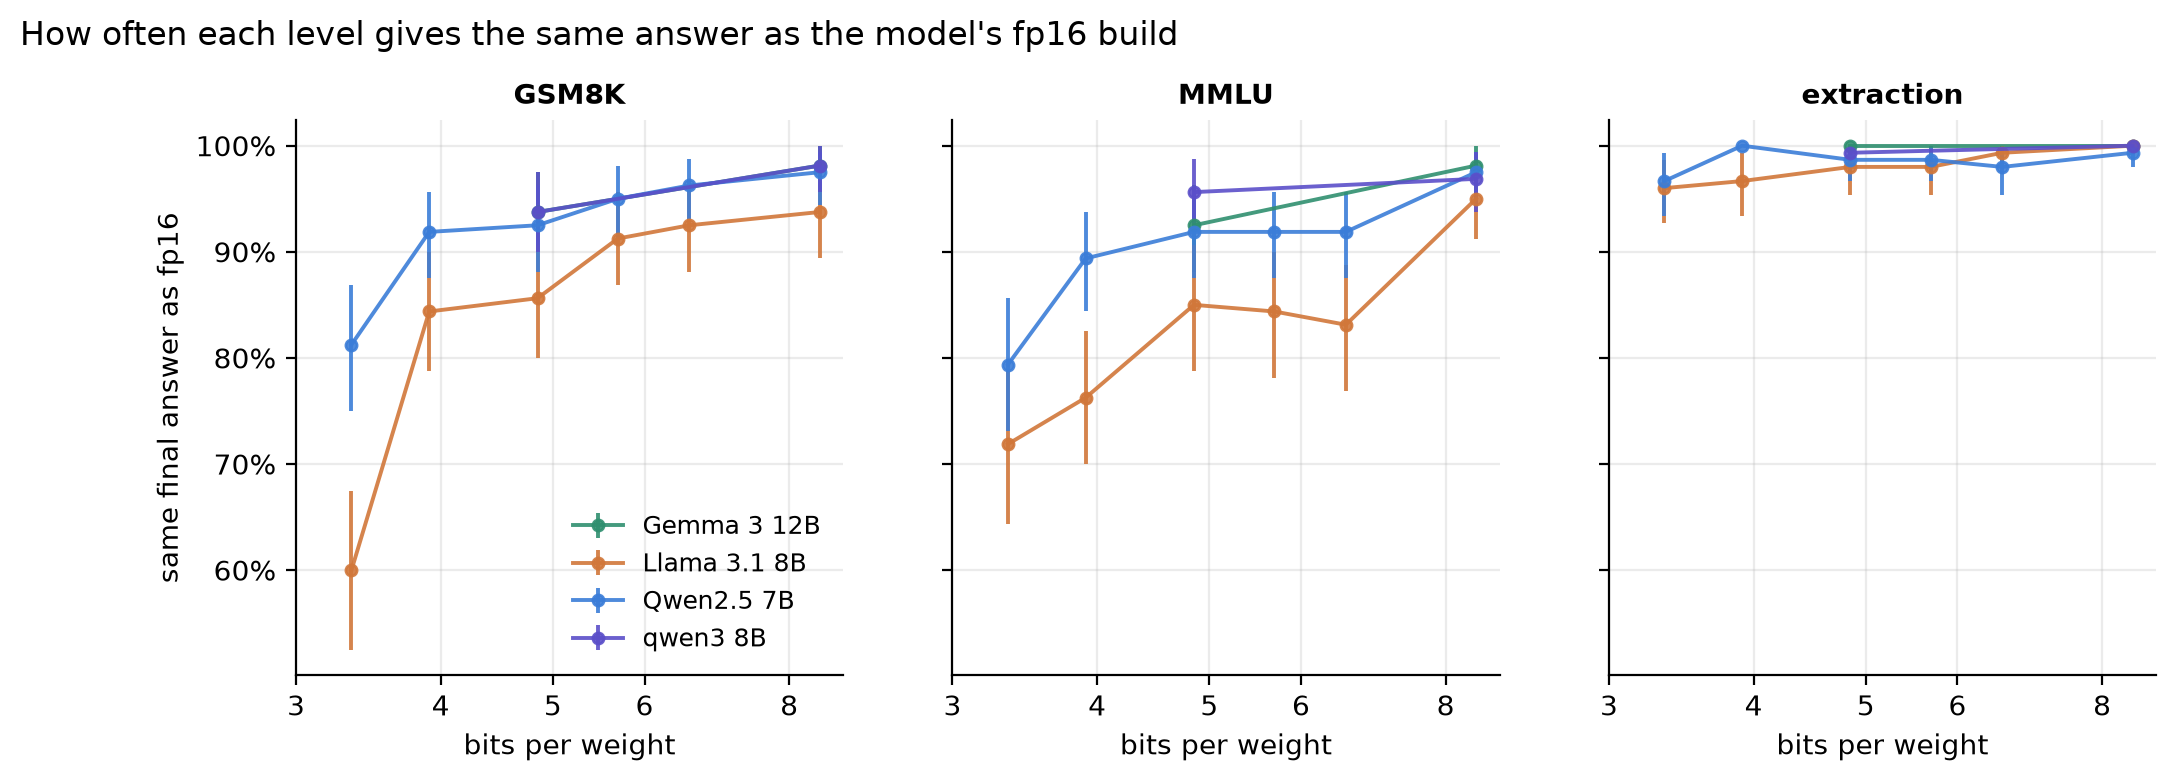
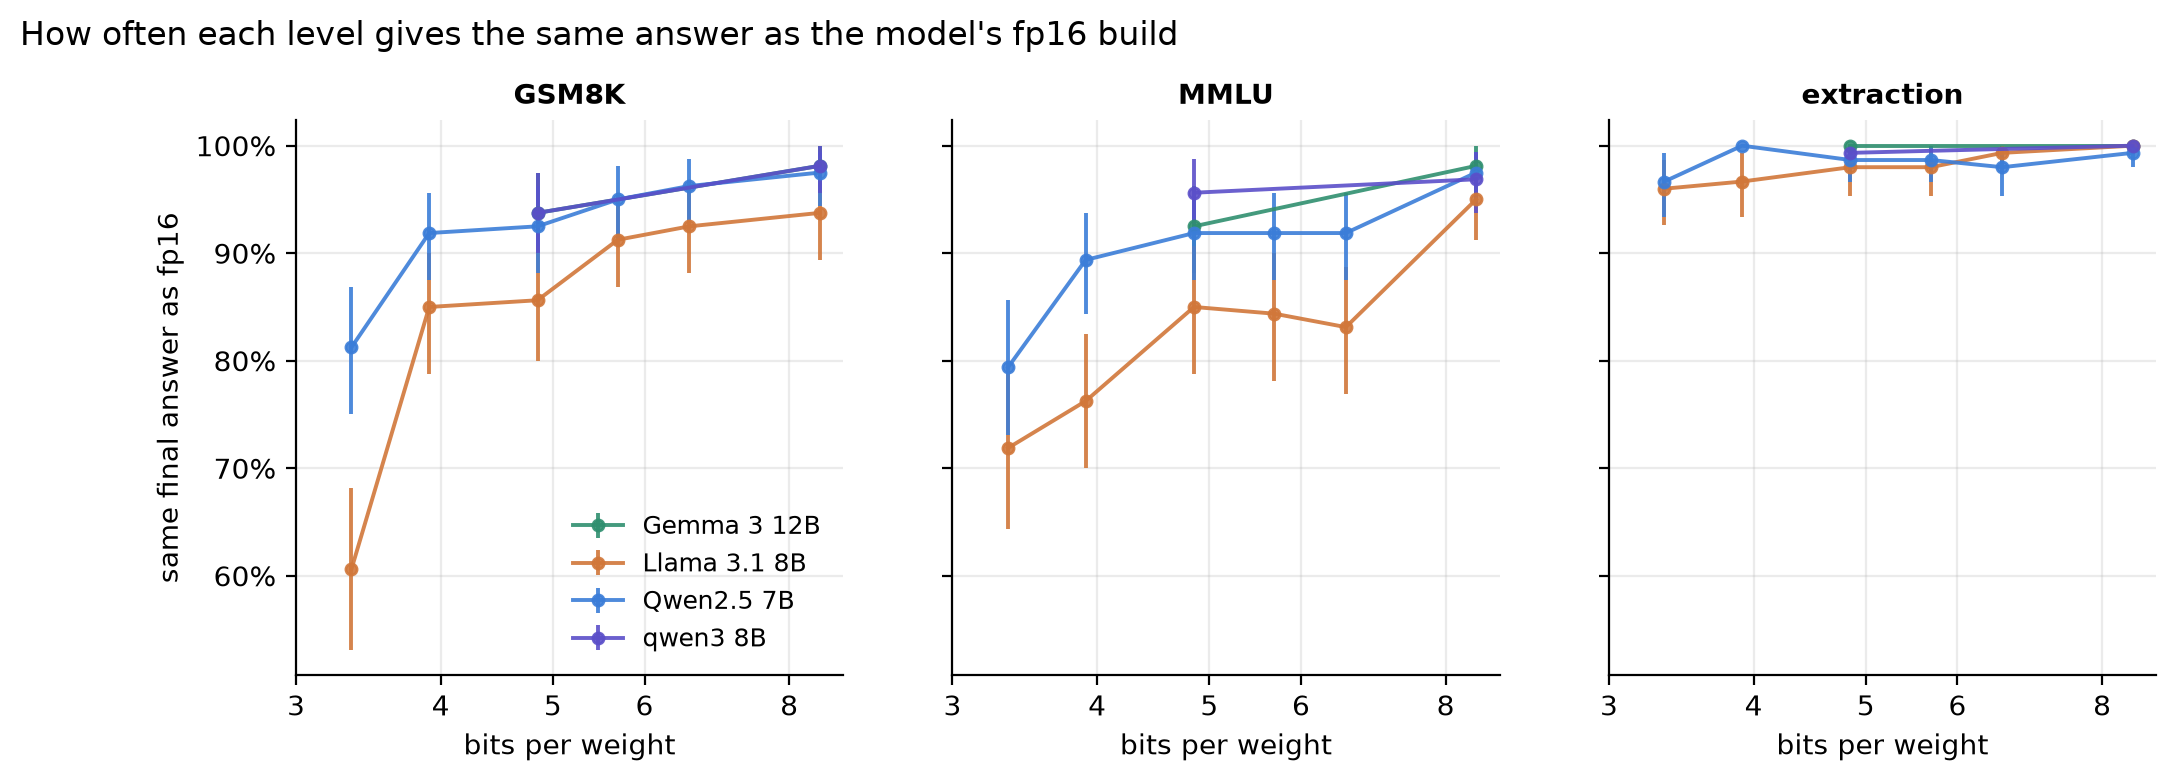
Parse a space used as a thousands separator on the answer line; re-score (no verdict changes)

diff --git a/src/qcliff/parse.py b/src/qcliff/parse.py
@@ -25,6 +25,12 @@ def _clean(text: str) -> str:
     return text.replace("**", "").replace("\\(", "").replace("\\)", "")
 
 
+def _join_groups(s: str) -> str:
+    """Read "9 500" (a space, no-break or thin space between thousands) as "9500". Used only on an
+    answer line or a \\boxed{}, where a space between digit groups is one number, not two."""
+    return re.sub(r"(?<=\d)[ \u00a0\u202f](?=\d{3}\b)", "", s)
+
+
 def canon_number(s) -> str | None:
     s = str(s).replace(",", "").replace("$", "").strip()
     try:
@@ -44,11 +50,11 @@ def parse_gsm8k(text: str) -> tuple[str | None, str]:
     cues = list(re.finditer(rf"(?m)^\s*[#>*\- ]*{CUE}\s*[:：]\s*(.*)$", t))
     if cues:
         tail = cues[-1].group(1)
-        m = re.search(NUM, tail.replace("$", ""))
+        m = re.search(NUM, _join_groups(tail.replace("$", "")))
         if m:
             return canon_number(m.group(0)), "cue"
     if boxed:
-        m = re.search(NUM, boxed[-1])
+        m = re.search(NUM, _join_groups(boxed[-1]))
         if m:
             return canon_number(m.group(0)), "boxed"
     nums = re.findall(NUM, t.replace("$", ""))

diff --git a/tests/test_parse.py b/tests/test_parse.py
@@ -53,3 +53,11 @@ def test_written_answer_survives_a_truncated_reply():
     assert r["written_correct"] is True
     r = check_a("gsm8k", "json_cot", '{"reasoning": "6 + 12", "answer": 18}', "18")
     assert r["correct"] and r["written_correct"]
+
+
+def test_space_as_thousands_separator_on_the_answer_line():
+    from qcliff.parse import parse_gsm8k
+    assert parse_gsm8k("The difference is $409 500 - $400 000 = $9 500.\n\nAnswer: $9 500")[0] == "9500"
+    assert parse_gsm8k("Answer: 1 250 000")[0] == "1250000"
+    assert parse_gsm8k("so \\boxed{12 000}")[0] == "12000"
+    assert parse_gsm8k("Answer: 3 apples and 450 grams")[0] == "3"  # not a digit group

diff --git a/HYPOTHESES.md b/HYPOTHESES.md
@@ -101,15 +101,23 @@ What would contradict prediction 4: a clear GSM8K drop at q4_K_M or above.
 The full run ended 2026-11-04 about 21:00 EST, about 25 hours after it started: 14,300 calls on the main
 items (21 builds × 620, plus the A/A repeat at q4_K_M), every build complete. Nothing above was edited.
 The pass rules were fixed in `src/qcliff/score.py` (commit 182b222) against the pilot before any main
-result existed; the only change since is the wording of one check's label in prediction 7, which printed
-the levels in the opposite order to its values. The scorecard is `reports/scorecard.md`.
+result existed. The only changes since are the wording of one check's label in prediction 7, which
+printed the levels in the opposite order to its values, and the parser fix described below. The scorecard is `reports/scorecard.md`.
 
 Checks before scoring: no call came near the context window (longest prompt plus reply 1,201 of 4,096
 tokens). Every unparsed GSM8K/MMLU reply (17), every wrong reply cut off at the cap (38), and every wrong
 reply whose last lines mention the right answer (76) was read. All are the model's own failures:
 intermediate values that equal the gold, loops to the cap, "none of the above", refusing to choose.
-None is a parsing artifact. Re-scoring all 9,870 main replies with an independent copy of the checkers
-(evalpair) gave the same score on every one.
+
+One parsing artifact was found after the first scoring, by a separate run of the same items: on
+gsm8k-0265 (gold 9,500), Llama writes "Answer: $9 500", with a space as the thousands separator, and the
+parser read 9. It did so at fp16, q8_0, q6_K, q5_K_M and q4_K_M (5 scored replies, plus the A/A repeat);
+no other main reply has a space-grouped number on its answer line. The parser now joins digit groups
+split by a space on the answer line and inside `\boxed{}` only, and every number below is after the fix.
+Before it, Llama's GSM8K scores from fp16 to q4_K_M were each 0.6 pp lower (fp16 88.1% rather than
+88.8%), its q3_K_M drop was −5.6 rather than −6.2 pp, and its q2_K drop −27.5 rather than −28.1. No
+verdict changed. Re-scoring all 9,870 main replies with an independent copy of the checkers (evalpair,
+with the same fix) gives the same score on every one.
 
 Scored: 8 held, 5 partly, 0 failed.
 
@@ -118,10 +126,10 @@ Scored: 8 held, 5 partly, 0 failed.
 | 1 | q8_0 drop within ±2 pp, interval includes 0, every model and task | largest Llama MMLU −1.9 [−5.0, +0.6] | held |
 | 2 | q6_K and q5_K_M drops within ±3 pp, ladder models | 11 of 12; Llama MMLU q6_K −6.2 [−11.9, −0.6] | partly |
 | 3 | q4_K_M drop no worse than −4 pp, every model and task | 11 of 12; Llama GSM8K −4.4 [−9.4, +0.6] | partly |
-| 4 | No clear GSM8K drop above q3_K_M; Llama q2_K ≥ 5 pp and worse than Qwen2.5 | none above q3_K_M; Llama −27.5 [−35.6, −20.0], Qwen2.5 −6.9 | held |
-| 5 | At q2_K, GSM8K drop larger than MMLU drop, both ladder models | Llama −27.5 vs −12.5; Qwen2.5 −6.9 vs −9.4 | partly |
+| 4 | No clear GSM8K drop above q3_K_M; Llama q2_K ≥ 5 pp and worse than Qwen2.5 | none above q3_K_M; Llama −28.1 [−35.6, −20.0], Qwen2.5 −6.9 | held |
+| 5 | At q2_K, GSM8K drop larger than MMLU drop, both ladder models | Llama −28.1 vs −12.5; Qwen2.5 −6.9 vs −9.4 | partly |
 | 6 | q2_K base extraction within ±2 pp; reformatted loses more | Llama +0.3 / −0.5; Qwen2.5 +0.1 / −0.6 | held |
-| 7 | q8_0 agreement < 100% for ≥ 3 models; agreement falls q8_0 → q4_K_M → q2_K | 4 of 4; e.g. Llama GSM8K 93.8% → 85.6% → 60.0% | held |
+| 7 | q8_0 agreement < 100% for ≥ 3 models; agreement falls q8_0 → q4_K_M → q2_K | 4 of 4; e.g. Llama GSM8K 93.8% → 85.6% → 60.6% | held |
 | 8 | Llama GSM8K output at q2_K ≥ 1.15 × fp16 | 223 → 306 tokens (1.37×) | held |
 | 9 | Llama strict-JSON share, q2_K vs fp16, differs by ≥ 50 pp | 0% → 100% | held |
 | 10 | Gemma QAT agrees with fp16 more than q4_K_M, pooled; drop no worse on either task | 94.1% vs 93.1%; MMLU −0.6 vs −1.9; GSM8K +0.6 vs +1.9 (missed) | partly |
@@ -140,8 +148,8 @@ with itself on 98.8% of Llama's and 99.4% of Qwen2.5's MMLU items (2 and 1 unpar
 Not pre-registered, from reading the replies:
 
 - **Llama's 2-bit maths loss is wrong reasoning, not running out of room.** At q2_K, 49 GSM8K items go
-  right → wrong and 5 wrong → right. Only 10 of the 49 are replies cut off at the cap. Among replies that
-  finished, accuracy is 66.9% (145 items), against 88.1% at fp16.
+  right → wrong and 4 wrong → right. Only 10 of the 49 are replies cut off at the cap. Among replies that
+  finished, accuracy is 66.9% (97 of 145), against 88.8% at fp16.
 - **Llama's MMLU answers move well before its accuracy settles.** The q6_K dip (−6.2 pp: 16 items right
   → wrong, 6 wrong → right) is followed by −1.2 at q5_K_M and −3.8 at q4_K_M, so it is not a trend. From
   q6_K to q4_K_M, Llama gives a different MMLU answer than fp16 on 15–17% of items; Qwen2.5 on 8%.
@@ -151,5 +159,5 @@ Not pre-registered, from reading the replies:
   absolute location." repeated to the cap; "Step 29: Based on the above steps..."), Qwen2.5 answers one
   MMLU item in Chinese and on another repeats "hinterland" until the cap.
 - **q2_K buys little speed.** At q2_K, Llama generates 62.5 tokens per second against 48.1 at q4_K_M
-  (1.3×) and Qwen2.5 62.2 against 52.6 (1.2×), for about 1.7 GB less memory, while scoring 23 and 9 pp
+  (1.3×) and Qwen2.5 62.2 against 52.6 (1.2×), for about 1.7 GB less memory, while scoring 24 and 9 pp
   lower on GSM8K than at q4_K_M.

diff --git a/reports/results.md b/reports/results.md
@@ -12,13 +12,13 @@ Score, and in brackets the drop from fp16 in points.
 
 | level | bits | GSM8K | MMLU | extraction | extraction (reformatted) |
 |---|---|---|---|---|---|
-| fp16 | 16.0 | 88.1% (+0.0) | 84.4% (+0.0) | 99.6% (+0.0) | 99.0% (+0.0) |
-| q8_0 | 8.5 | 88.8% (+0.6) | 82.5% (-1.9) | 99.6% (+0.0) | 99.2% (+0.2) |
-| q6_K | 6.56 | 86.9% (-1.2) | 78.1% (-6.2) | 99.5% (-0.1) | 99.1% (+0.1) |
-| q5_K_M | 5.69 | 87.5% (-0.6) | 83.1% (-1.2) | 99.3% (-0.2) | 99.2% (+0.2) |
-| q4_K_M | 4.85 | 83.8% (-4.4) | 80.6% (-3.8) | 99.8% (+0.2) | 98.7% (-0.3) |
-| q3_K_M | 3.91 | 82.5% (-5.6) | 77.5% (-6.9) | 99.3% (-0.2) | 96.7% (-2.3) |
-| q2_K | 3.35 | 60.6% (-27.5) | 71.9% (-12.5) | 99.9% (+0.3) | 98.5% (-0.5) |
+| fp16 | 16.0 | 88.8% (+0.0) | 84.4% (+0.0) | 99.6% (+0.0) | 99.0% (+0.0) |
+| q8_0 | 8.5 | 89.4% (+0.6) | 82.5% (-1.9) | 99.6% (+0.0) | 99.2% (+0.2) |
+| q6_K | 6.56 | 87.5% (-1.2) | 78.1% (-6.2) | 99.5% (-0.1) | 99.1% (+0.1) |
+| q5_K_M | 5.69 | 88.1% (-0.6) | 83.1% (-1.2) | 99.3% (-0.2) | 99.2% (+0.2) |
+| q4_K_M | 4.85 | 84.4% (-4.4) | 80.6% (-3.8) | 99.8% (+0.2) | 98.7% (-0.3) |
+| q3_K_M | 3.91 | 82.5% (-6.2) | 77.5% (-6.9) | 99.3% (-0.2) | 96.7% (-2.3) |
+| q2_K | 3.35 | 60.6% (-28.1) | 71.9% (-12.5) | 99.9% (+0.3) | 98.5% (-0.5) |
 
 ### Qwen2.5 7B (n = 160 per task, 150 records)
 
@@ -63,8 +63,8 @@ Score, and in brackets the drop from fp16 in points.
 | Llama 3.1 8B | GSM8K | q6_K | -1.2 | [-5.0, +1.9] | 160 |
 | Llama 3.1 8B | GSM8K | q5_K_M | -0.6 | [-4.4, +3.1] | 160 |
 | Llama 3.1 8B | GSM8K | q4_K_M | -4.4 | [-9.4, +0.6] | 160 |
-| Llama 3.1 8B | GSM8K | q3_K_M | -5.6 | [-10.6, -0.6] | 160 |
-| Llama 3.1 8B | GSM8K | q2_K | -27.5 | [-35.6, -20.0] | 160 |
+| Llama 3.1 8B | GSM8K | q3_K_M | -6.2 | [-10.6, -1.9] | 160 |
+| Llama 3.1 8B | GSM8K | q2_K | -28.1 | [-35.6, -20.0] | 160 |
 | Llama 3.1 8B | MMLU | q8_0 | -1.9 | [-5.0, +0.6] | 160 |
 | Llama 3.1 8B | MMLU | q6_K | -6.2 | [-11.9, -0.6] | 160 |
 | Llama 3.1 8B | MMLU | q5_K_M | -1.2 | [-6.9, +4.4] | 160 |
@@ -140,7 +140,7 @@ Walking down from fp16, the first level whose drop is at least 5 points with an 
 | gemma3-12b | mmlu | base | none | – | q4_K_M | -1.9 |
 | llama3.1-8b | drift | base | none | – | q2_K | +0.3 |
 | llama3.1-8b | drift | reformatted | none | – | q2_K | -0.5 |
-| llama3.1-8b | gsm8k | base | q3_K_M | -5.6 | q2_K | -27.5 |
+| llama3.1-8b | gsm8k | base | q3_K_M | -6.2 | q2_K | -28.1 |
 | llama3.1-8b | mmlu | base | q6_K | -6.2 | q2_K | -12.5 |
 | qwen2.5-7b | drift | base | none | – | q2_K | +0.1 |
 | qwen2.5-7b | drift | reformatted | none | – | q2_K | -0.6 |
@@ -162,8 +162,8 @@ Walking down from fp16, the first level whose drop is at least 5 points with an 
 | Llama 3.1 8B | GSM8K | q6_K | 92.5% | [88.1, 96.2] | 160 |
 | Llama 3.1 8B | GSM8K | q5_K_M | 91.2% | [86.9, 95.6] | 160 |
 | Llama 3.1 8B | GSM8K | q4_K_M | 85.6% | [80.0, 90.6] | 160 |
-| Llama 3.1 8B | GSM8K | q3_K_M | 84.4% | [78.8, 90.0] | 160 |
-| Llama 3.1 8B | GSM8K | q2_K | 60.0% | [52.5, 67.5] | 160 |
+| Llama 3.1 8B | GSM8K | q3_K_M | 85.0% | [78.8, 90.0] | 160 |
+| Llama 3.1 8B | GSM8K | q2_K | 60.6% | [53.1, 68.1] | 160 |
 | Llama 3.1 8B | MMLU | fp16 | 98.8% | [96.9, 100.0] | 160 |
 | Llama 3.1 8B | MMLU | q8_0 | 95.0% | [91.2, 98.1] | 160 |
 | Llama 3.1 8B | MMLU | q6_K | 83.1% | [76.9, 88.8] | 160 |

diff --git a/README.md b/README.md
@@ -14,7 +14,8 @@ with its own fp16. The predictions and the analysis plan were committed before t
 
 Scored against the committed predictions: 8 held, 5 partly, 0 failed
 ([addendum](HYPOTHESES.md#addendum-2026-11-04-2130-est-scoring-after-the-full-run),
-[scorecard](reports/scorecard.md), [all numbers](reports/results.md)). Drops are a level's score minus
+[scorecard](reports/scorecard.md), [all numbers](reports/results.md)). One parser fix made after the first
+scoring (a space used as a thousands separator, on one item) is disclosed there; it changed no verdict. Drops are a level's score minus
 fp16's on the same items; brackets are 95% item-bootstrap intervals.
 
 ![Score by quantization level](reports/figures/cliff.png)
@@ -30,9 +31,9 @@ within 2 pp on every task. In return q4_K_M is about a third of the size and gen
 as fp16 on this laptop.
 
 **The cliff is at 2 bits, and how far a model falls depends on the model.** At q2_K, Llama's GSM8K
-accuracy drops from 88.1% to 60.6% (−27.5 pp [−35.6, −20.0]) and its MMLU from 84.4% to 71.9%. Qwen2.5,
+accuracy drops from 88.8% to 60.6% (−28.1 pp [−35.6, −20.0]) and its MMLU from 84.4% to 71.9%. Qwen2.5,
 at the same nominal bit-width, loses 6.9 pp on maths and 9.4 on MMLU. Llama already slips at q3_K_M
-(−5.6 pp on GSM8K, −6.9 on MMLU); Qwen2.5 at q3_K_M is level with fp16. Llama's 2-bit loss is mostly
+(−6.2 pp on GSM8K, −6.9 on MMLU); Qwen2.5 at q3_K_M is level with fp16. Llama's 2-bit loss is mostly
 wrong reasoning, not running out of room: of the 49 items it gets wrong at q2_K and right at fp16, 10
 are replies cut off at the cap, and among replies that finished it is right on 66.9%. The cut-off ones
 loop ("The Equator is not used to determine absolute location." until the cap).
@@ -58,7 +59,7 @@ accuracy is within 1 pp of fp16 on every task. The ordinary q4_K_M is also withi
 tasks there was little for QAT to recover.
 
 **Below 4 bits, little speed is left to buy.** q2_K generates about 1.2–1.3× as fast as q4_K_M and saves
-about 1.7 GB, for 9–23 pp less on maths.
+about 1.7 GB, for 9–24 pp less on maths.
 
 **What to take from it.** For 7–12B instruct models on tasks like these, 5 bits and up is free and
 q4_K_M is close to free. Below 4 bits, measure the specific model: two models of the same size at the
@@ -142,7 +143,7 @@ cache/       llm.sqlite: every model call
 - 160 items per task: an interval on a maths or MMLU drop spans ±2 to ±6 pp, so a 2–3 pp loss can't be told apart
   from none. "Free" here means "no loss this study could detect".
 - qwen3 and Gemma 3 are published only down to 4 bits, so the cliff is measured on two models, and
-  they disagree by 20 pp on where it is.
+  at 2 bits they differ by 21 pp.
 - The tasks are short: no long context, tool use or multi-turn. Extraction is near ceiling for every
   build, so it can show only that low bits don't hurt it, not how much they would hurt a harder schema.
 - The "same answer" rates and the reading of 2-bit failure modes are descriptive; only the predictions

diff --git a/reports/scorecard.md b/reports/scorecard.md
@@ -67,12 +67,12 @@ Generated by `qcliff score`; the pass rules are in `src/qcliff/score.py`.
 
 - ✓ Llama 3.1 8B GSM8K: no clear drop above q3_K_M: none
 - ✓ Qwen2.5 7B GSM8K: no clear drop above q3_K_M: none
-- ✓ Llama GSM8K q2_K drop ≥ 5 pp: -27.5 pp
-- ✓ Llama's q2_K GSM8K drop larger than Qwen2.5's: Llama -27.5 pp, Qwen2.5 -6.9 pp
+- ✓ Llama GSM8K q2_K drop ≥ 5 pp: -28.1 pp
+- ✓ Llama's q2_K GSM8K drop larger than Qwen2.5's: Llama -28.1 pp, Qwen2.5 -6.9 pp
 
 **5. Maths breaks before multiple choice: partly (1/2)**
 
-- ✓ Llama 3.1 8B q2_K: GSM8K drop larger than MMLU drop: GSM8K -27.5 pp, MMLU -12.5 pp
+- ✓ Llama 3.1 8B q2_K: GSM8K drop larger than MMLU drop: GSM8K -28.1 pp, MMLU -12.5 pp
 - ✗ Qwen2.5 7B q2_K: GSM8K drop larger than MMLU drop: GSM8K -6.9 pp, MMLU -9.4 pp
 
 **6. Extraction holds longest: held**
@@ -85,7 +85,7 @@ Generated by `qcliff score`; the pass rules are in `src/qcliff/score.py`.
 **7. Answers move before accuracy does: held**
 
 - ✓ q8_0 agreement below 100% on some task for ≥ 3 of 4 models: 4 of 4: Llama 3.1 8B, Qwen2.5 7B, qwen3 8B, Gemma 3 12B
-- ✓ Llama 3.1 8B GSM8K: agreement falls q8_0 → q4_K_M → q2_K: 93.8% → 85.6% → 60.0%
+- ✓ Llama 3.1 8B GSM8K: agreement falls q8_0 → q4_K_M → q2_K: 93.8% → 85.6% → 60.6%
 - ✓ Llama 3.1 8B MMLU: agreement falls q8_0 → q4_K_M → q2_K: 95.0% → 85.0% → 71.9%
 - ✓ Qwen2.5 7B GSM8K: agreement falls q8_0 → q4_K_M → q2_K: 97.5% → 92.5% → 81.2%
 - ✓ Qwen2.5 7B MMLU: agreement falls q8_0 → q4_K_M → q2_K: 97.5% → 91.9% → 79.4%
